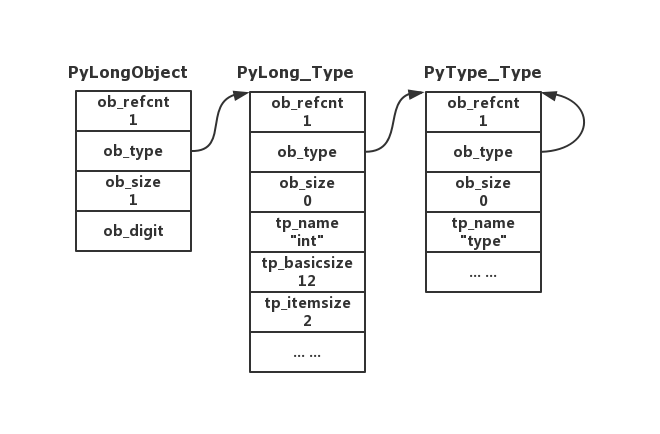
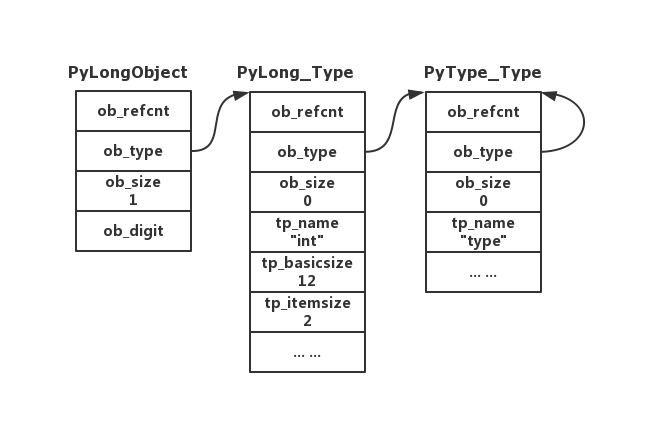
doc

Changed region(s): [[0.6667, 0.2097, 0.7879, 0.2995], [0.3939, 0.2097, 0.5455, 0.2995], [0.1515, 0.2097, 0.2727, 0.2995]]

diff --git a/1. Python Object/2. int对象.md b/1. Python Object/2. int对象.md
@@ -1,4 +1,4 @@
-# 整型对象 int
+# 2 整型对象 int
 
 Python中的整型(int)对象是通过PyLongObject对象实现的，它是一个变长对象，其中的ob_digit是C语言的变长数组的技巧（许多C语言项目中struct里经常用到`char data[0]`，这使得data数组长度是可变的）。
 
@@ -141,7 +141,7 @@ _PyLong_New(Py_ssize_t size)
 }
 ```
 
-它会将生成的PyLongObject对象的ob_type赋值为&PyLong_Type，结合之前提到的PyTypeObject对象，可以得出一个整型对象在运行时的形象表示：
+它会将生成的PyLongObject对象的ob_type赋值为&PyLong_Type，结合之前提到的PyTypeObject对象，可以得出一个整型对象在运行时的形象表示（32bit）：
 
 ![PyLongObject](https://github.com/ysw1912/Python-Source-Code-Analysis/blob/master/1.%20Python%20Object/PyLongObject.jpg)
 

diff --git a/README.md b/README.md
@@ -1,1 +1,5 @@
 # Python-Source-Code-Analysis
+
+Python源码分析，基于Python 3.8，附带一些2.7的内容。
+
+工作半年，开始学习。
